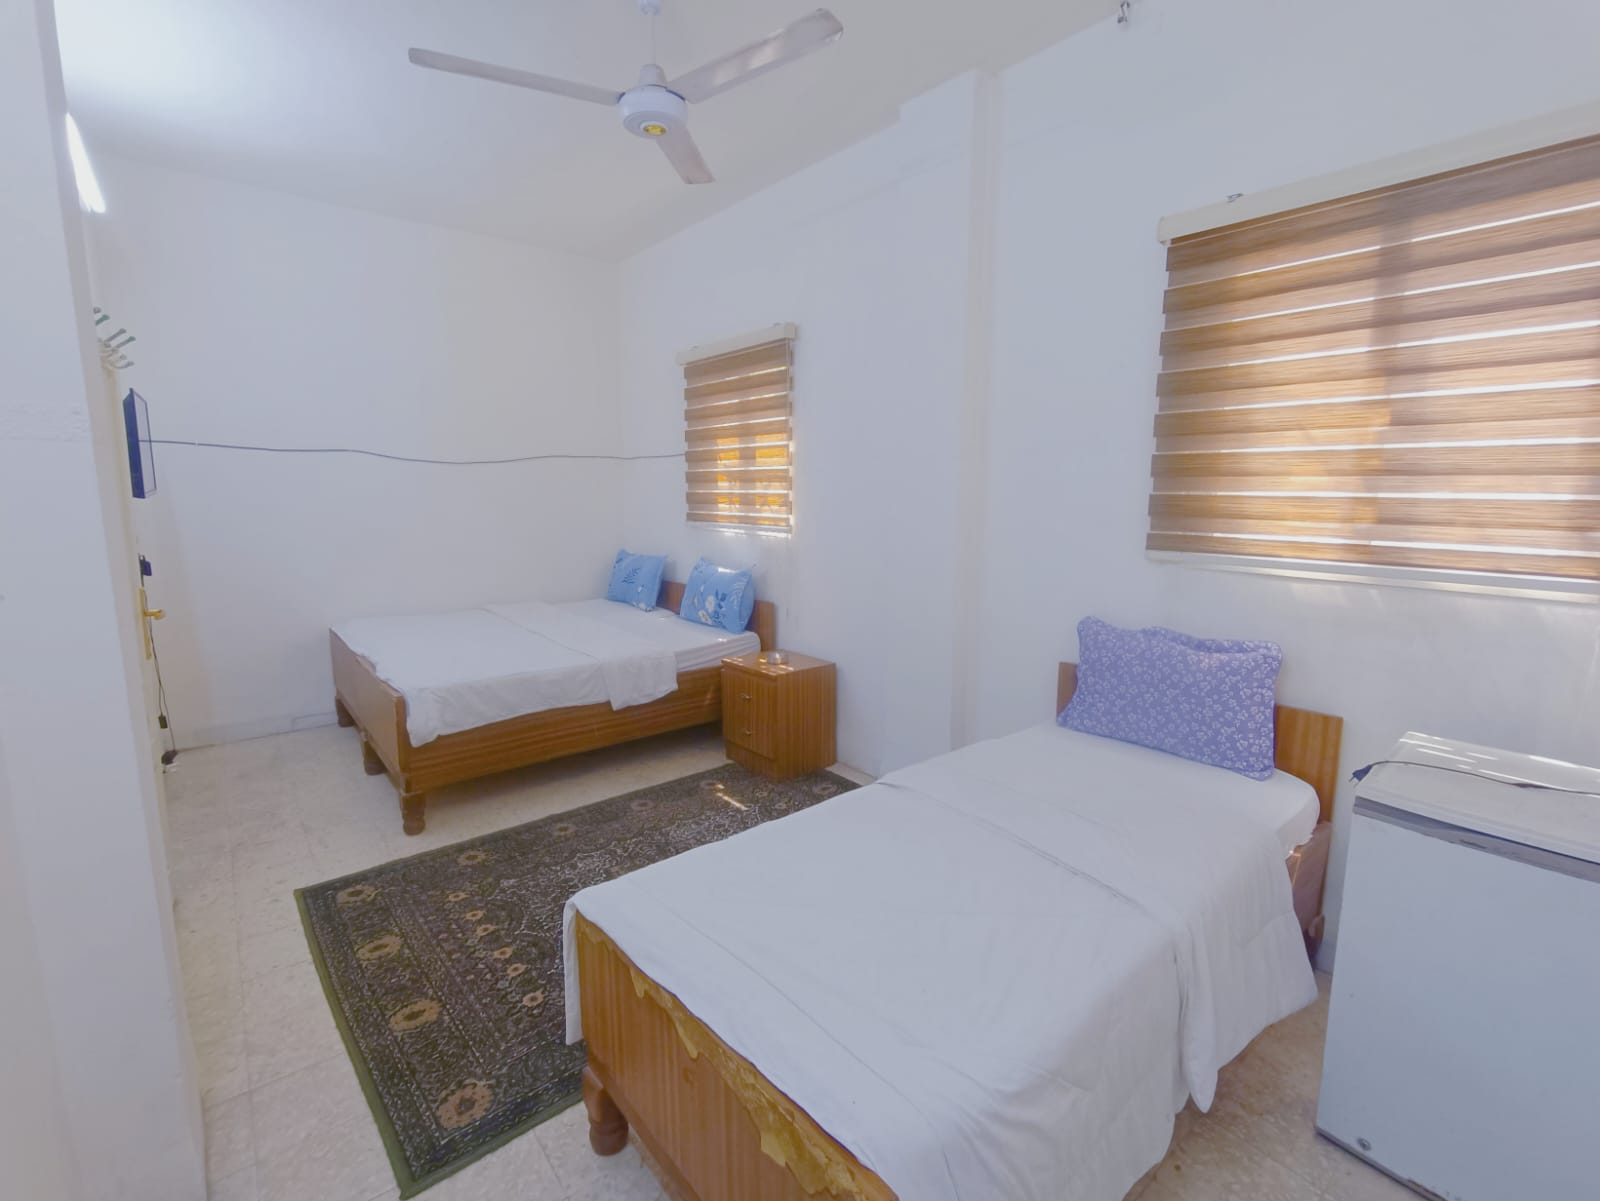
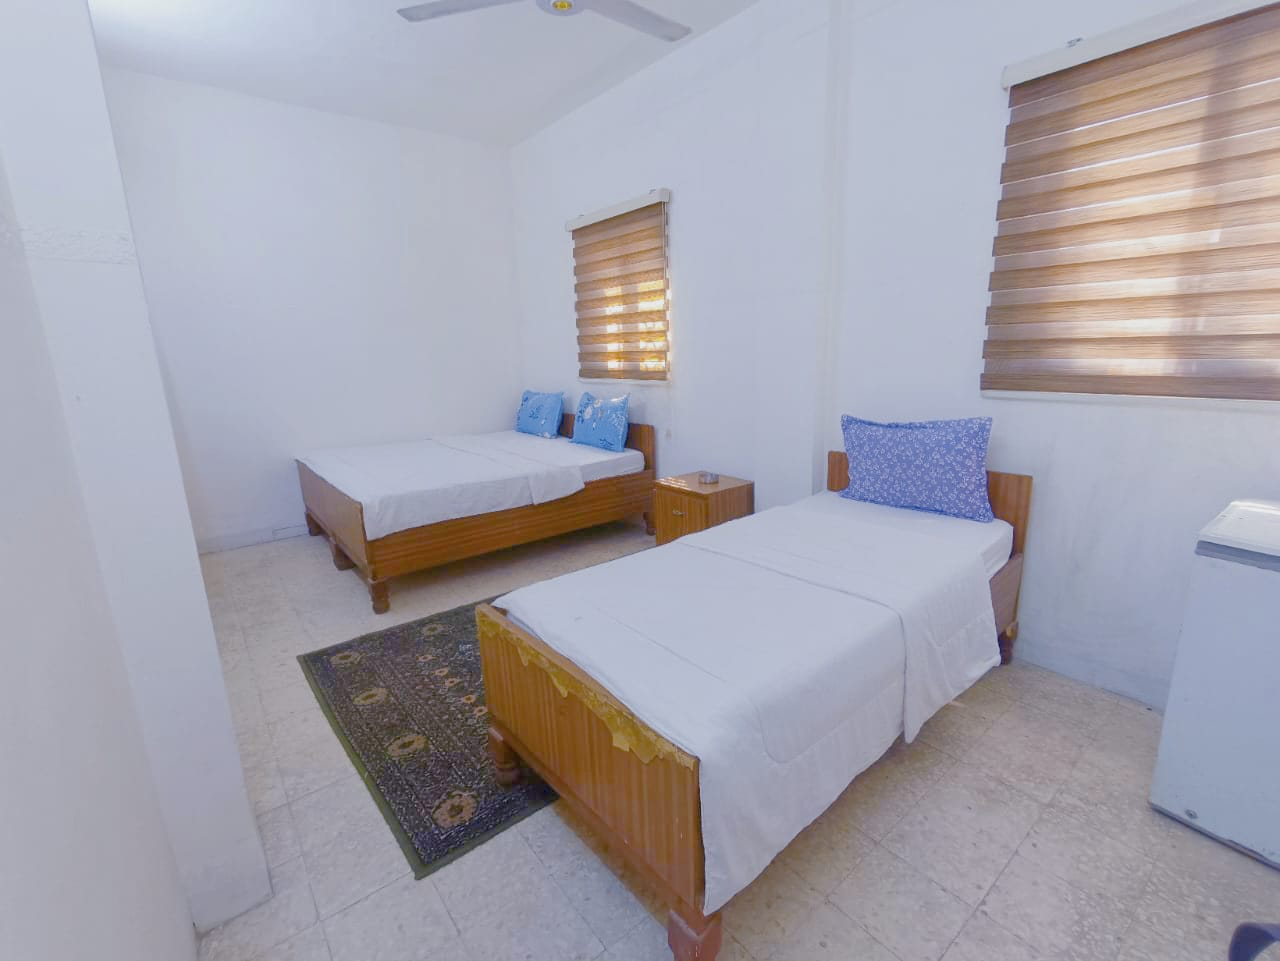
Refactor code structure for improved readability and maintainability

diff --git a/app/rooms/[id]/page.tsx b/app/rooms/[id]/page.tsx
@@ -3,7 +3,7 @@
 import { Button } from "@/components/ui/button"
 import { Card, CardContent, CardDescription, CardHeader, CardTitle } from "@/components/ui/card"
 import { Badge } from "@/components/ui/badge"
-import { Wifi, Coffee, Tv, Bath, Menu, X, ArrowRight } from "lucide-react"
+import { Wifi, Coffee, Tv, Menu, X, ArrowRight, Snowflake } from "lucide-react"
 import Link from "next/link"
 import { useState } from "react"
 import { useParams } from "next/navigation"
@@ -243,9 +243,9 @@ export default function RoomDetailPage() {
 
             <div className="text-center">
               <div className="mx-auto w-16 h-16 bg-primary/10 rounded-full flex items-center justify-center mb-4">
-                <Bath className="w-8 h-8 text-primary" />
+                <Snowflake className="w-8 h-8 text-primary" />
               </div>
-              <h3 className="font-arabic-heading text-lg font-semibold mb-2">حمام خاص</h3>
+              <h3 className="font-arabic-heading text-lg font-semibold mb-2">ثلاجة صغيرة</h3>
               <p className="font-arabic-body text-sm text-muted-foreground">مع أدوات أساسية</p>
             </div>
 

diff --git a/app/rooms/page.tsx b/app/rooms/page.tsx
@@ -1,9 +1,9 @@
 "use client";
 
-import { Button } from "@/components/ui/button"
+
 import { Card, CardContent, CardDescription, CardHeader, CardTitle } from "@/components/ui/card"
 import { Badge } from "@/components/ui/badge"
-import { Wifi, Coffee, Tv, Bath, Menu, X } from "lucide-react"
+import { Wifi, Coffee, Tv, Menu, X, Snowflake } from "lucide-react"
 import Link from "next/link"
 import { useState } from "react"
 
@@ -209,9 +209,9 @@ export default function RoomsPage() {
 
             <div className="text-center">
               <div className="mx-auto w-16 h-16 bg-primary/10 rounded-full flex items-center justify-center mb-4">
-                <Bath className="w-8 h-8 text-primary" />
+                <Snowflake className="w-8 h-8 text-primary" />
               </div>
-              <h3 className="font-arabic-heading text-lg font-semibold mb-2">حمام خاص</h3>
+              <h3 className="font-arabic-heading text-lg font-semibold mb-2">ثلاجة صغيرة</h3>
               <p className="font-arabic-body text-sm text-muted-foreground">مع أدوات أساسية</p>
             </div>
 

diff --git a/app/layout.tsx b/app/layout.tsx
@@ -105,7 +105,7 @@ export default function RootLayout({
     "alternateName": "Al Wafaa Hotel",
     "description": "فندق اقتصادي في الزرقاء يقدم غرف مريحة بأسعار مناسبة مع خدمة 24 ساعة",
     "url": "https://alwafaahoteljo.com",
-    "logo": "https://alwafaahoteljo.com/placeholder-logo.png",
+    "logo": "/WhatsApp Image 2025-09-09 at 18.30.17_6a64479b.jpg",
     "image": [
       "https://alwafaahoteljo.com/WhatsApp Image 2025-09-09 at 18.30.17_6a64479b.jpg",
       "https://alwafaahoteljo.com/WhatsApp Image 2025-09-02 at 14.49.21_68c3ea8d.jpg"

diff --git a/app/page.tsx b/app/page.tsx
@@ -15,7 +15,6 @@ import {
 	Wifi,
 	Car,
 	Coffee,
-	Utensils,
 	Menu,
 	X,
 	Plane,
